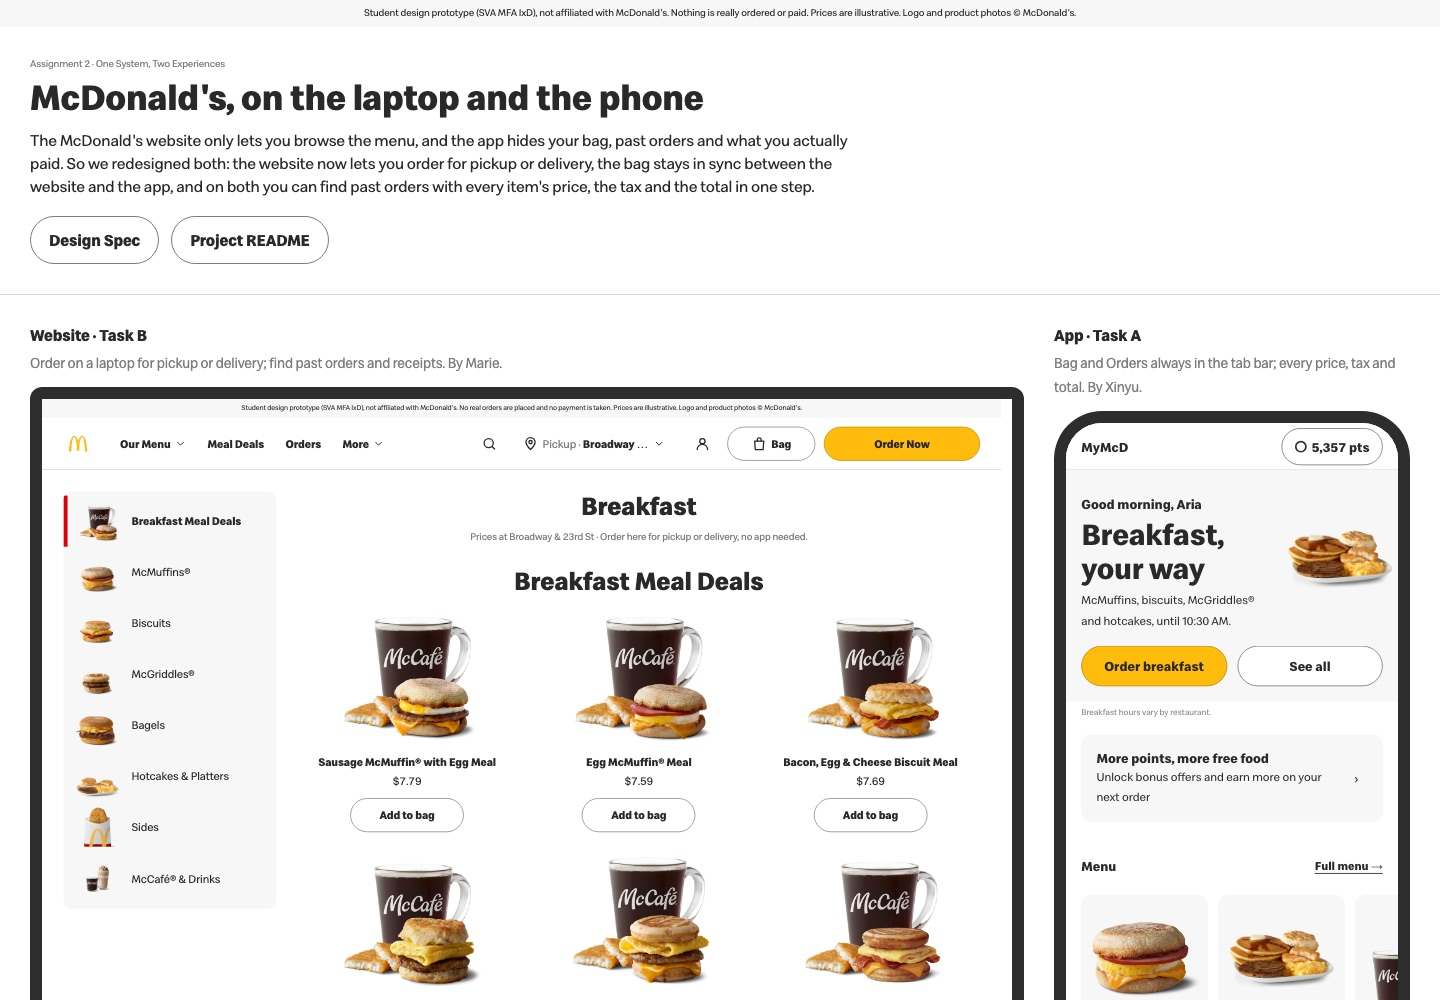
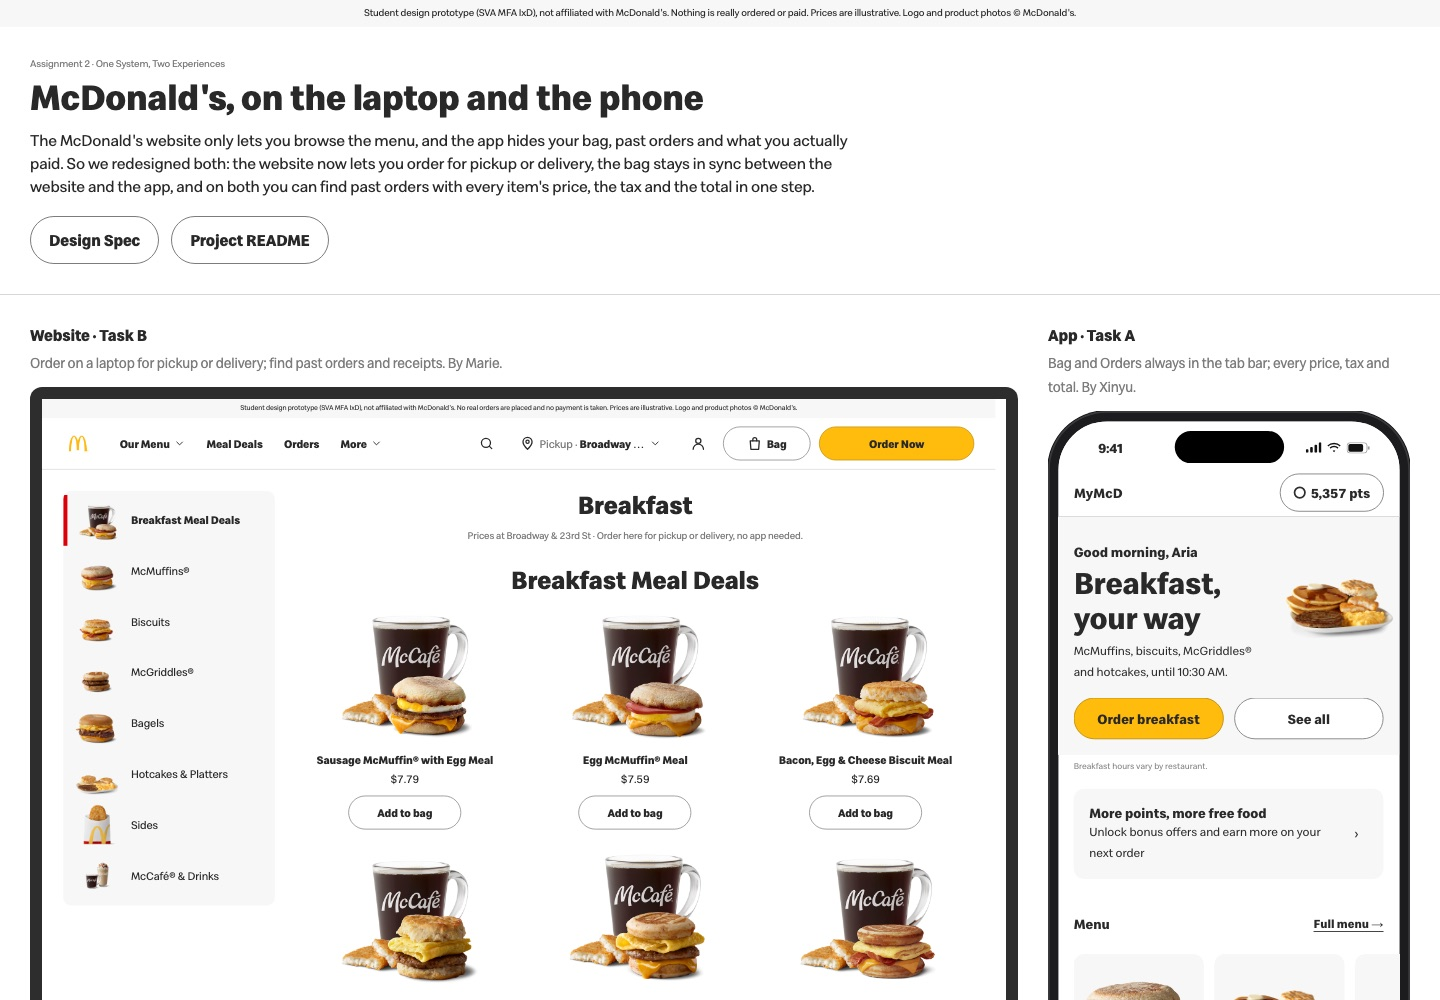
Demo: show the app in its own iPhone frame
Load mobile/ 521px wide so it keeps Xinyu's iPhone frame (status bar,
Dynamic Island, home bar) instead of the edge-to-edge phone mode, hide its
notes column and page background, and clip to the 417x876 device.
mobile/index.html unchanged. Logged in prompt.md/process.md.

diff --git a/demo/index.html b/demo/index.html
@@ -53,9 +53,10 @@ header p { max-width: 820px; margin: var(--s2) 0 0; }
 .device .cap { margin: 0 0 var(--s2); }
 .laptop .bezel { background: var(--charcoal); border-radius: 12px 12px 0 0; padding: var(--s2) var(--s2) var(--s2); }
 .laptop .base { height: 18px; background: var(--line); border-radius: 0 0 12px 12px; margin: 0 -2%; }
-.phone .bezel { background: var(--charcoal); border-radius: 48px; padding: var(--s2); }
 .screen { position: relative; overflow: hidden; background: var(--canvas); }
-.phone .screen { border-radius: 36px; }
+/* The app draws its own iPhone frame (status bar, Dynamic Island, home bar) when it's wider than 520px. */
+.phone .screen { background: none; }
+.phone .screen iframe { background: transparent; color-scheme: light; }
 .screen iframe { position: absolute; top: 0; left: 0; border: 0; transform-origin: 0 0; background: var(--canvas); }
 .open { margin-top: var(--s2); }
 
@@ -100,9 +101,9 @@ footer { padding-top: var(--s3); padding-bottom: var(--s4); border-top: 1px soli
     <div class="device phone">
       <h2 class="t-heading">App · Task A</h2>
       <p class="cap t-body-s muted">Bag and Orders always in the tab bar; every price, tax and total. By Xinyu.</p>
-      <div class="bezel"><div class="screen" id="phoneScreen">
-        <iframe src="../mobile/index.html" title="Mobile app prototype" data-w="393" data-h="852"></iframe>
-      </div></div>
+      <div class="screen" id="phoneScreen">
+        <iframe src="../mobile/index.html" title="Mobile app prototype" data-w="521" data-h="876" data-clip="417"></iframe>
+      </div>
       <a class="btn btn-secondary open" href="../mobile/">Open the app full screen</a>
     </div>
   </section>
@@ -133,23 +134,36 @@ footer { padding-top: var(--s3); padding-bottom: var(--s4); border-top: 1px soli
 </footer>
 
 <script>
-// Each prototype renders at its real size (laptop 1366×854, phone 393×852) and is scaled to fit its frame.
+// Each prototype renders at its real size and is scaled to fit. The laptop shows the website at 1366×854.
+// The app is rendered 521px wide so it keeps its own 417×876 iPhone frame (narrower, it goes edge-to-edge),
+// and only the frame is shown.
 function fit() {
   const laptop = document.getElementById("laptopScreen");
   const phone = document.getElementById("phoneScreen");
-  const phoneH = Math.min(720, Math.max(480, innerHeight - 220));
-  const phoneW = Math.round(phoneH * 393 / 852);
+  const phoneH = Math.min(760, Math.max(480, innerHeight - 200));
+  const phoneW = Math.round(phoneH * 417 / 876);
   phone.style.width = phoneW + "px";
-  phone.closest(".device").style.width = (phoneW + 24) + "px"; // frame hugs the screen (12px bezel each side)
+  phone.closest(".device").style.width = phoneW + "px";
   for (const screen of [laptop, phone]) {
     const f = screen.querySelector("iframe");
     const w = +f.dataset.w, h = +f.dataset.h;
-    const s = screen.clientWidth / w;
+    const s = screen.clientWidth / (+f.dataset.clip || w);
     f.style.width = w + "px"; f.style.height = h + "px";
     f.style.transform = `scale(${s})`;
     screen.style.height = Math.round(h * s) + "px";
   }
 }
+// Show only the app's iPhone: hide its notes column, drop its page padding and background.
+const phoneFrame = document.querySelector("#phoneScreen iframe");
+function onlyIphone() {
+  try {
+    const d = phoneFrame.contentDocument;
+    if (!d || !d.head || d.getElementById("demo-only-iphone")) return;
+    d.head.insertAdjacentHTML("beforeend", '<style id="demo-only-iphone">.notes{display:none!important}html,body{background:transparent!important}.stage{padding:0!important;gap:0!important;justify-content:flex-start!important;align-items:flex-start!important;min-height:0!important}</style>');
+  } catch (e) {}
+}
+phoneFrame.addEventListener("load", onlyIphone);
+onlyIphone(); // in case it already loaded
 addEventListener("resize", fit);
 // Start each prototype at its top (resizing the frame while it loads can leave it scrolled).
 document.querySelectorAll(".screen iframe").forEach(f => f.addEventListener("load", () => {

diff --git a/website/prompt.md b/website/prompt.md
@@ -130,3 +130,6 @@ Every prompt Marie gave Claude (Claude Code) for this project, in order and word
 
 **38.** "okay, combine the mobile and the website together in one page for demonstration"
 - Added `demo/index.html`: the problem and the redesign in one paragraph, the live website in a laptop frame and Xinyu's live app in a phone frame (both clickable, scaled to fit), "Try it" steps for each, and links to open them full screen. Linked from both READMEs. ✅
+
+**39.** "https://marie-6.github.io/Mcdonalds/mobile/ the mobile one should look like this"
+- In the demo, the app was loaded under 520px wide, so it switched to edge-to-edge mode and lost its iPhone frame. It's now loaded wide enough to keep Xinyu's own iPhone frame (status bar, Dynamic Island, home bar), with her notes column and page background hidden, so only the phone shows. Xinyu's `mobile/index.html` wasn't changed. ✅

diff --git a/website/process.md b/website/process.md
@@ -158,6 +158,8 @@ The different Bag and Checkout borders were correct (Primary = Gold + Gold Strok
 **Asked:** combine the mobile app and the website on one page for demonstration.
 **Changed:** [demo/](https://marie-6.github.io/Mcdonalds/demo/) shows the live website in a laptop frame and Xinyu's live app in a phone frame, side by side. Both are clickable, with "Try it" steps for each. The page uses the same Design Spec.
 
+**Then:** the app has to look like its own page, so it now shows in Xinyu's own iPhone frame instead of a plain one I drew.
+
 ![Demo page](process-img/40-demo.jpg)
 
 ---
